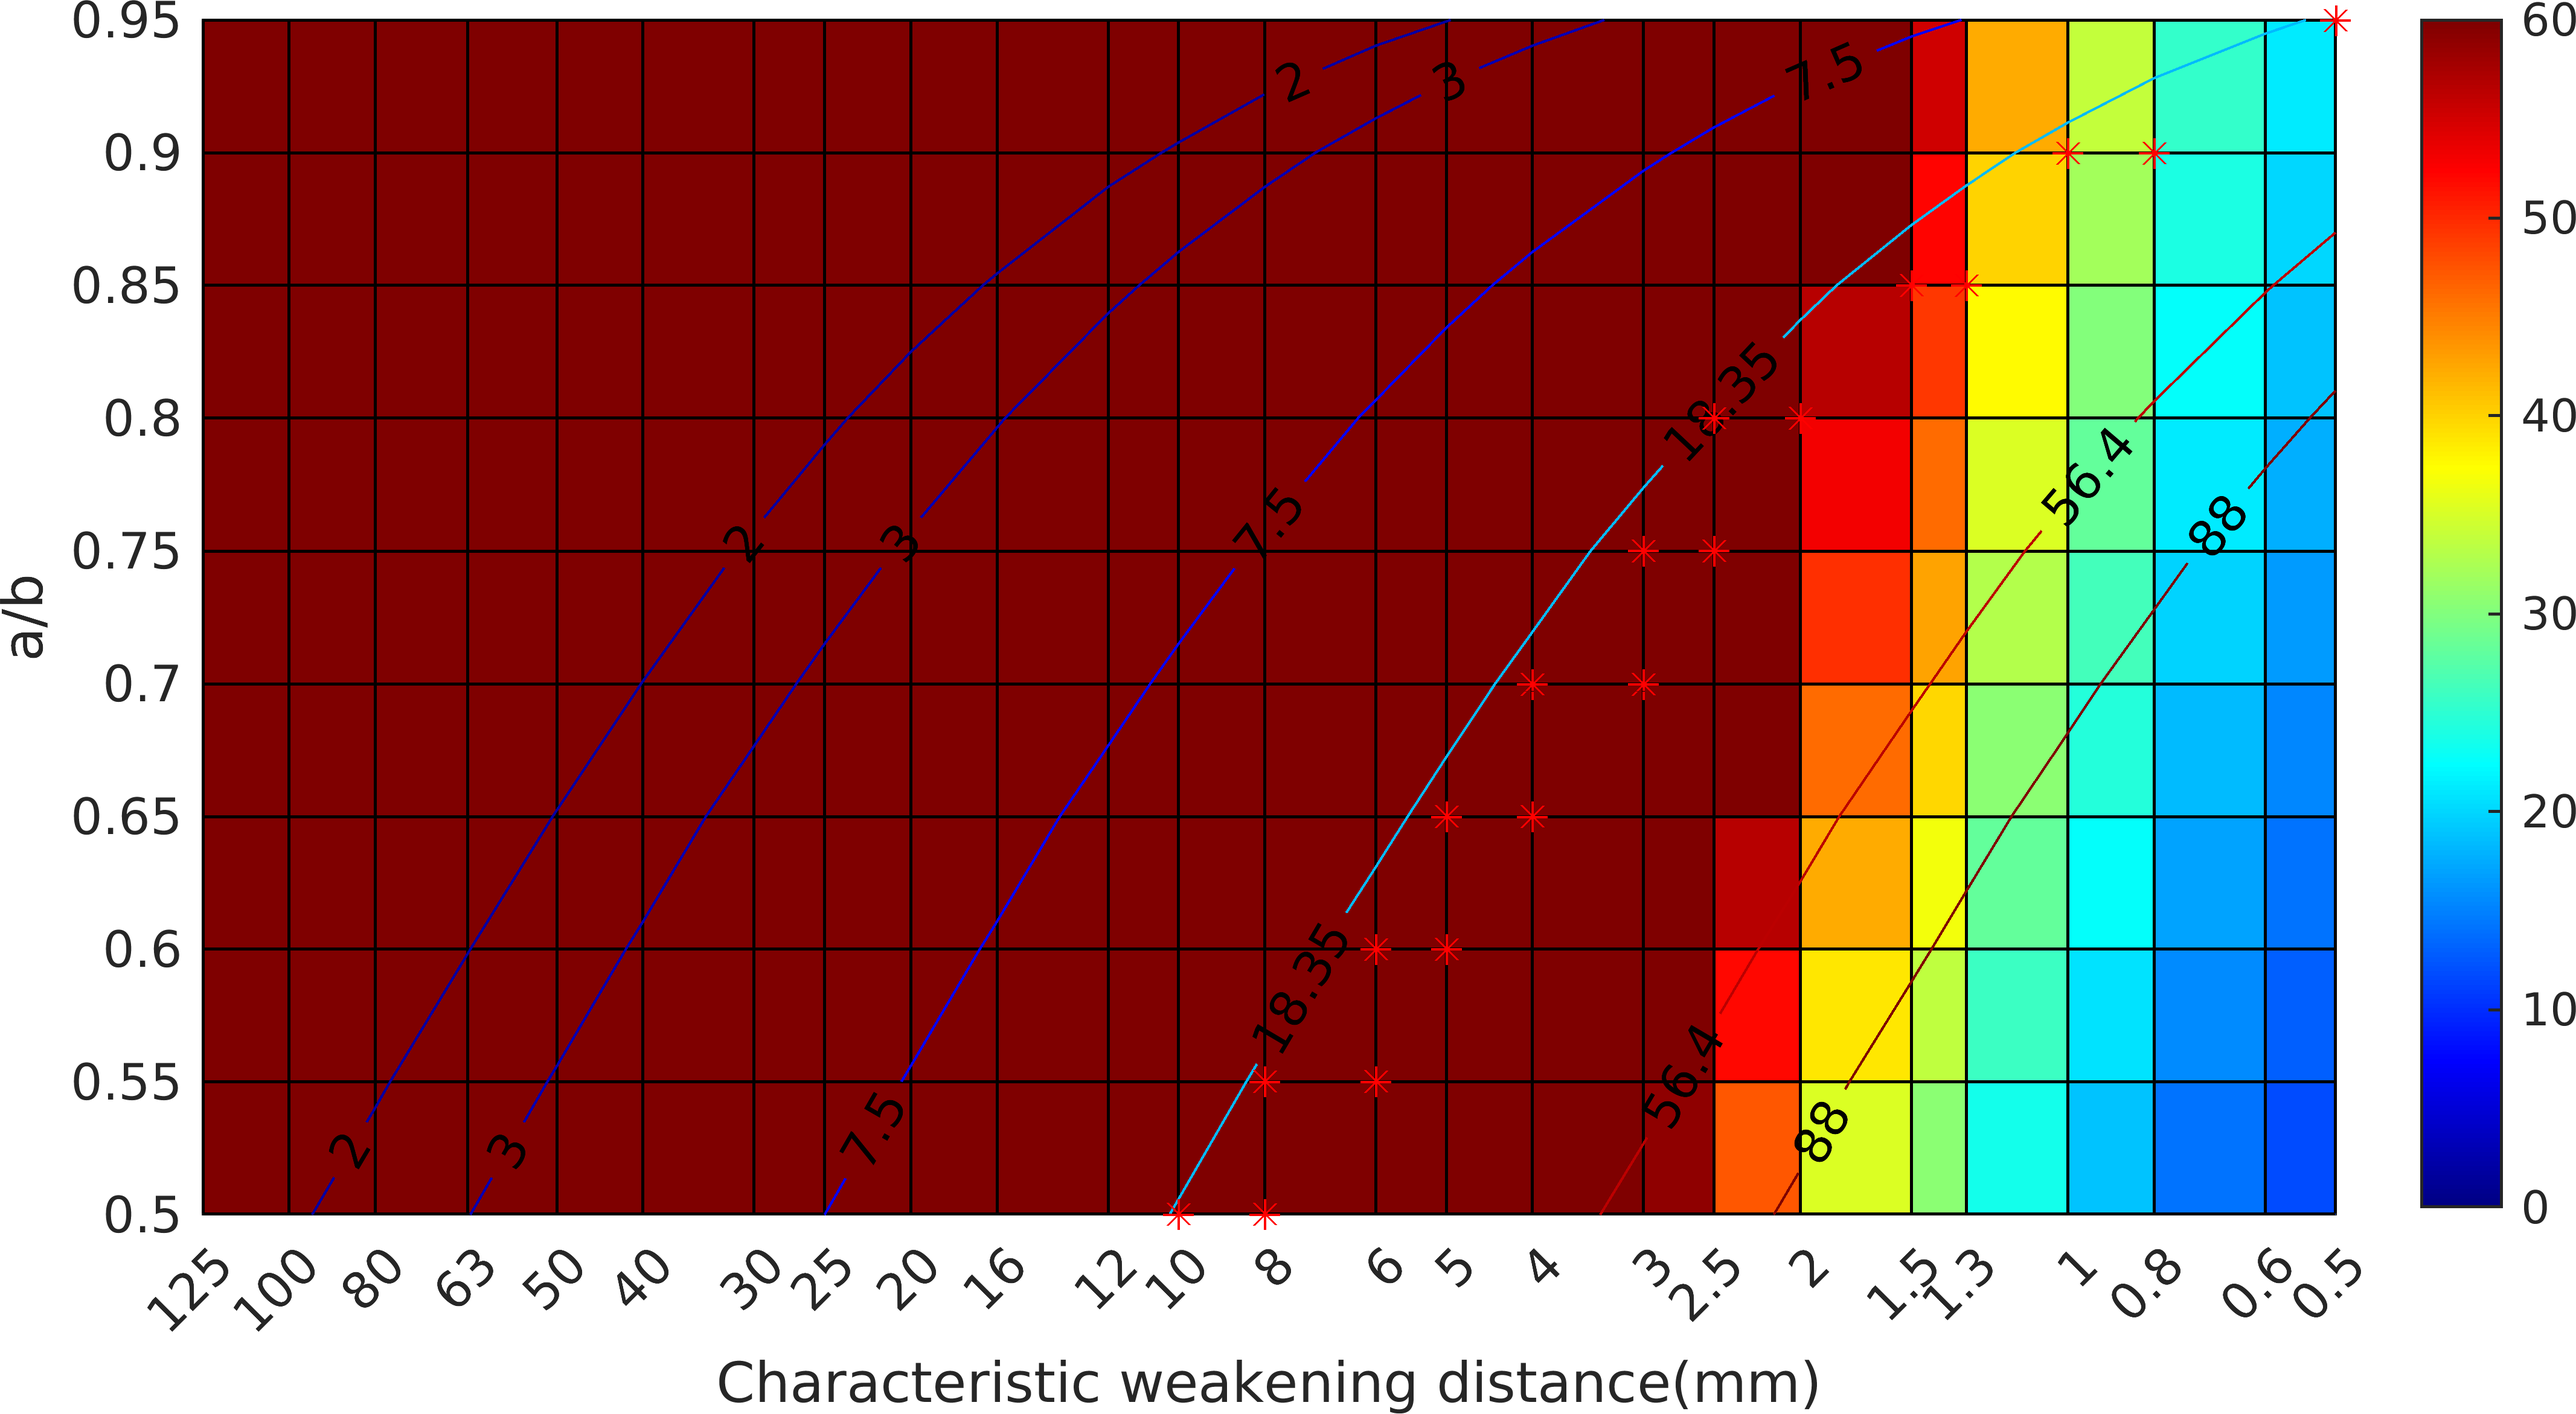
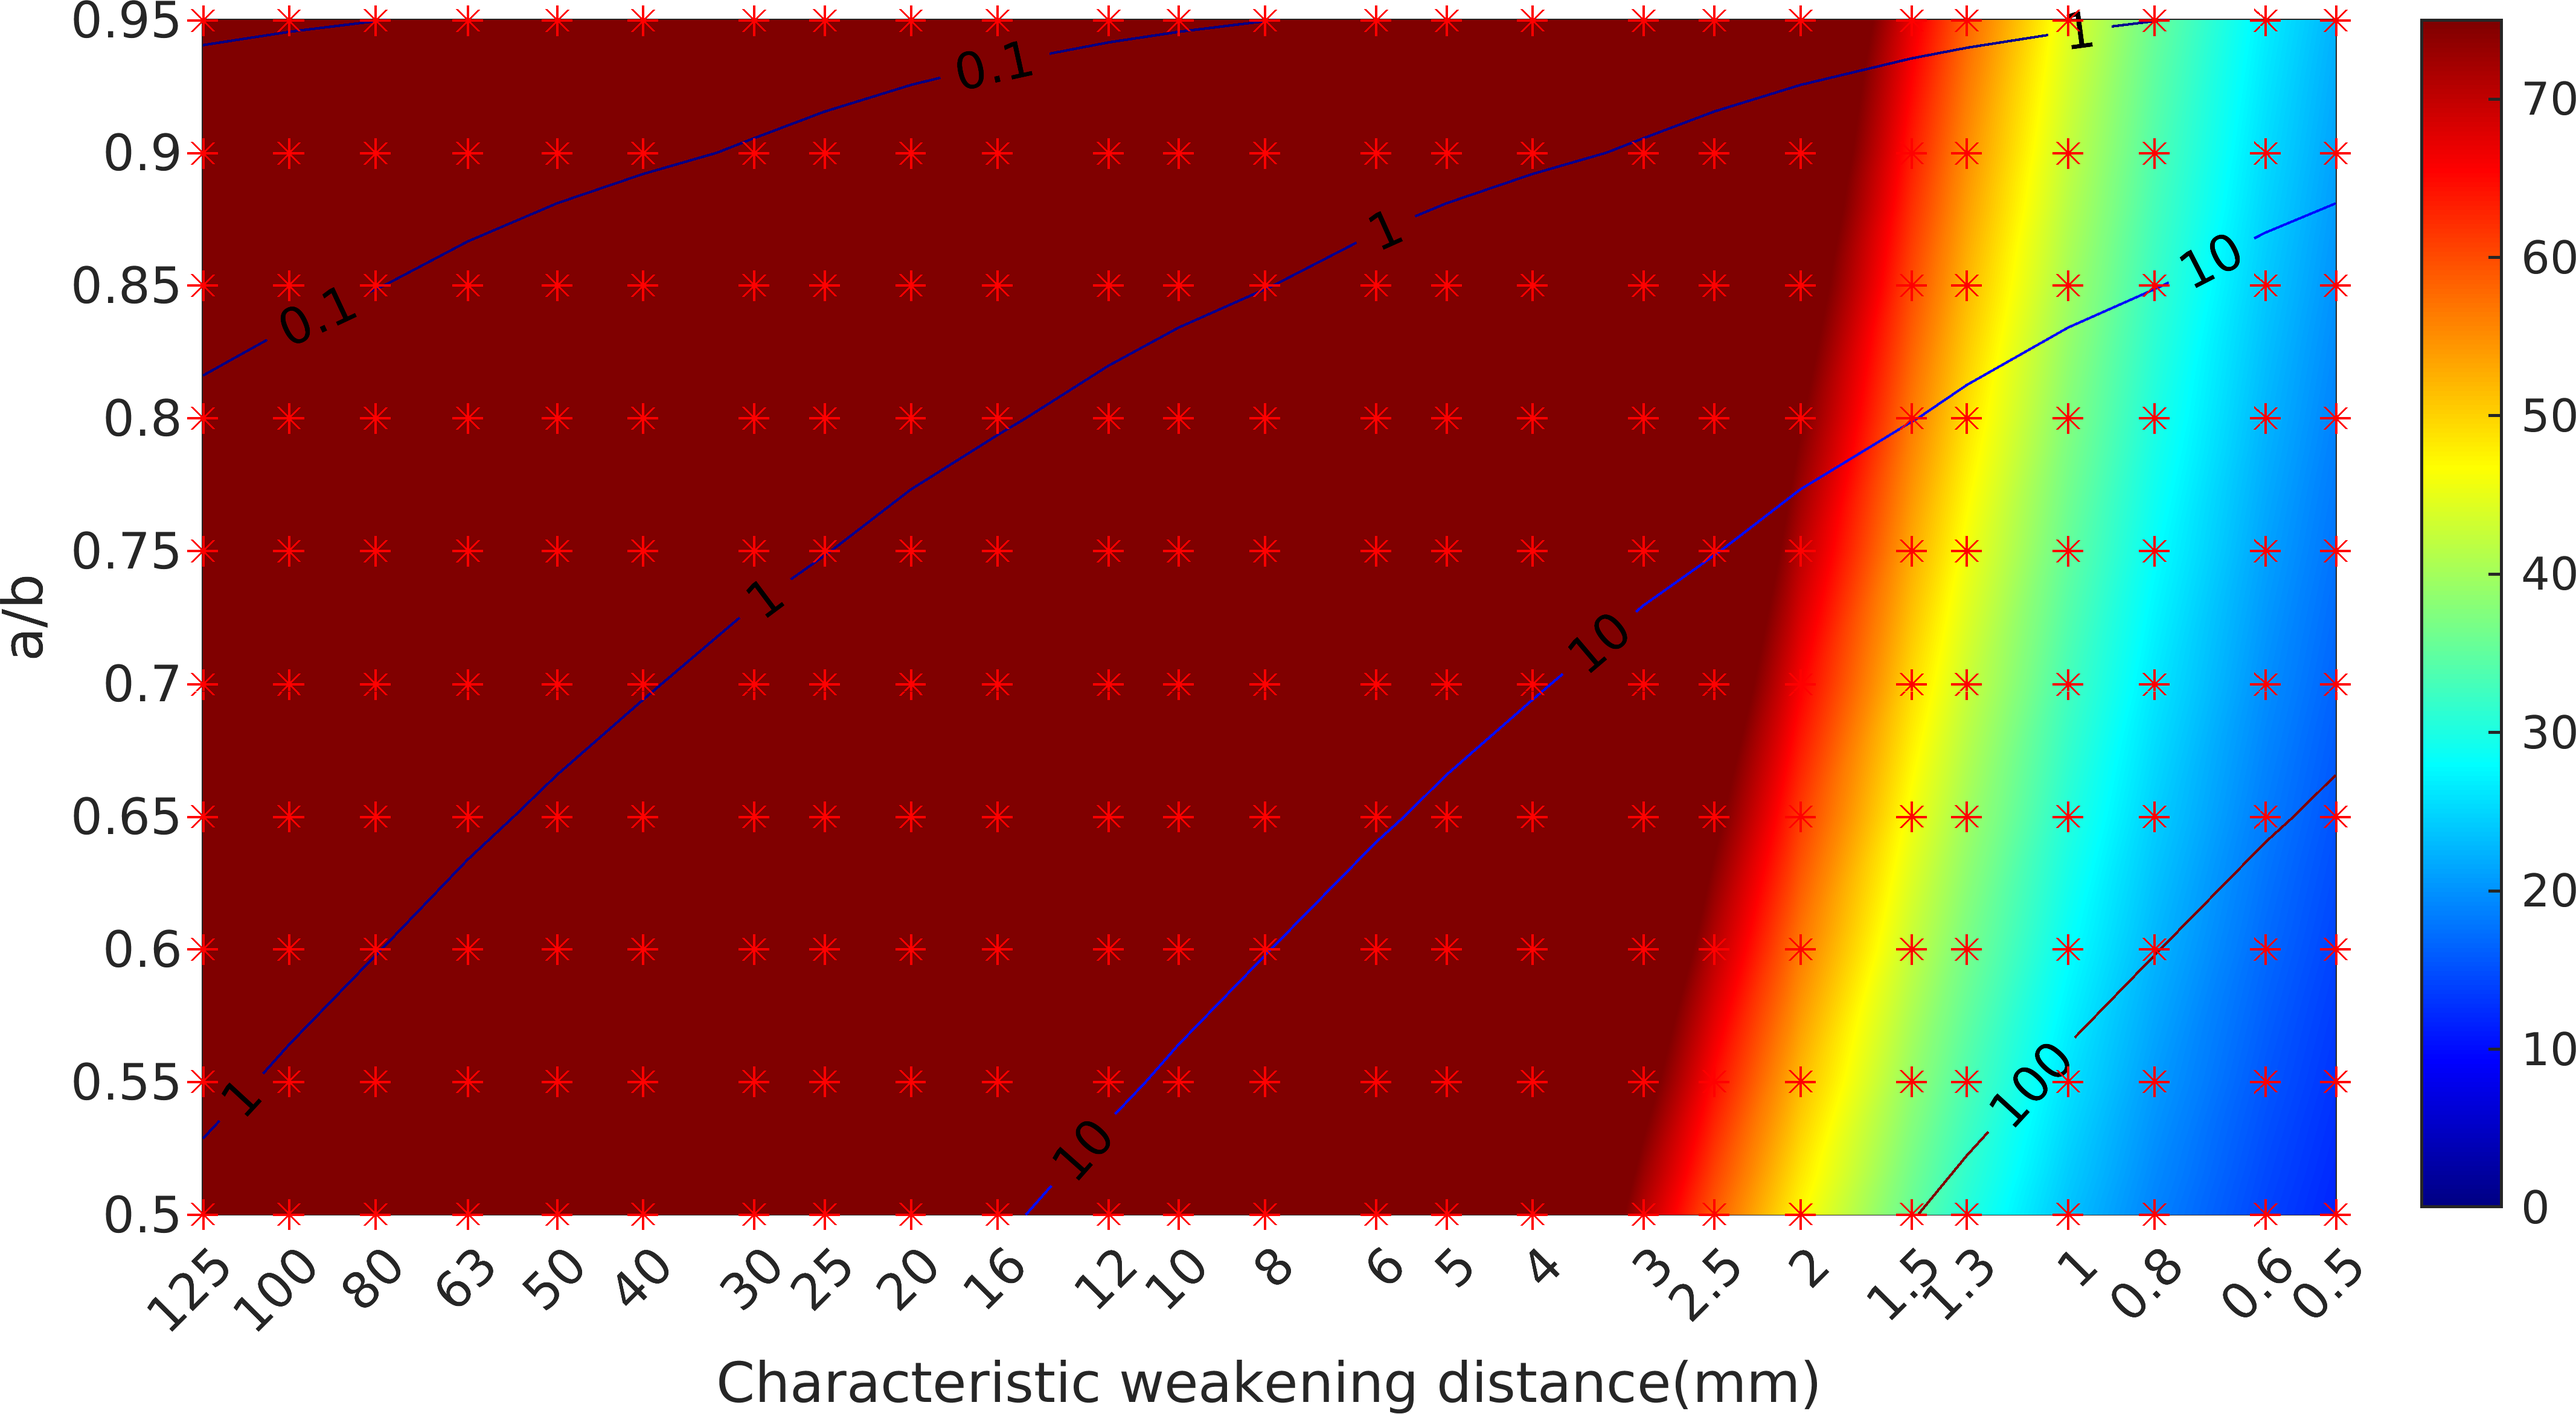
phase_diagram

diff --git a/Matlab/Ru_b_L_Peng_Rice.m b/Matlab/Ru_b_L_Peng_Rice.m
@@ -26,19 +26,19 @@ for i = 1:length(b)
     for j = 1:length(L)   
         for k = 1:length(H)
             syms y
-            exp = y*tanh(2*gamma*H(k)/y+atanh(mu_D/mu)) -...
-               2/pi*mu_D*L(j)*b(i)/sigma/(b(i)-a)^2;
+%             exp = y*tanh(2*gamma*H(k)/y+atanh(mu_D/mu)) -...
+%                2/pi*mu_D*L(j)*b(i)/sigma/(b(i)-a)^2;
 %                 exp = y*tanh(2*gamma*H(k)/y+atanh(mu_D(i)/mu)) -...
 %                  pi/4*mu_D(i)*L(j)/sigma/(b-a);
-%                exp = 1/y*tanh(2*H(k)*gamma/W*y+atanh(mu_D/mu)) -...
-%                        mu_D*L(j)/sigma/(a/a_b(i)-a)/W;    % without pi/4? 
+               exp = 1/y*tanh(2*H(k)*gamma/W*y+atanh(mu_D/mu)) -...
+                       mu_D*L(j)/sigma/(a/a_b(i)-a)/W;    % without pi/4? 
             y = double(vpasolve(exp,[0,1000000000]));
 %             if ( 2<= y) && (y<= 3)
-%             if ( 2 <= y) && (y <= 30)
-%                 m = m+1;
-%                 P(m,:) = [log10(L(j)*1000), a_b(i), L(j),b(i)];
-%             end
-            Ru(i,j,k) = W/y;
+            if ( 2 <= y) && (y <= 30)
+                m = m+1;
+                P(m,:) = [log10(L(j)*1000), a_b(i), L(j),b(i)];
+            end
+            Ru(i,j,k) = y;
             Cohesive(i,j,k) = (9*pi/32)*mu_D*r*L(j)/b(i)./sigma;
 %            Ru(i,j,k) = W/(mu_D*L(j)/sigma/(b(i)-a));
         end
@@ -47,9 +47,9 @@ end
 % Ru = W./NS;
 [Y,X] = meshgrid(a_b, log10(L*1000));
 % A = pcolor(X,Y,Ru');
-% v = [2,3,7.5,18.35,56.4,88];
+v = [2,3,7.5,18.35,56.4,88];
 % v = [2,3,5,10,15,20,30,40,50,60,70,80,100,200,400];
-v = [0.01, 0.1, 1, 4,10, 100];
+% v = [0.01, 0.1, 1,10, 100];
 figure(1)
 set(0,'defaultfigurecolor','w')
 set(gcf,'Position',[20 20 800 400]);%左下角位置，宽高
@@ -69,9 +69,8 @@ clabel(c,h,v)
 xlabel('Characteristic weakening distance(mm)')
 ylabel('a/b')
 box on
-load("Experiment_point.mat")
 scatter(P(:,1),P(:,2) ,'*','k' )
-% cohesive zone size
+save("Experiment_point.mat",'P')
 
 %%
 % yy = a./[0.018,0.019,0.020,0.021,0.022,0.023,0.025,0.027,0.029, 0.031];
@@ -122,7 +121,7 @@ scatter(P(:,1),P(:,2) ,'*','k' )
 
 % title([num2str(H)])
 %% 
-export_fig -dpng -r600 Nucleation_size_phase_diagram_b_L_Rubin_Ampuero
+export_fig -dpng -r600 Nucleation_size_phase_diagram_b_L_Rice
 
 %% output the bash script for sbatch in Great lakes
 
